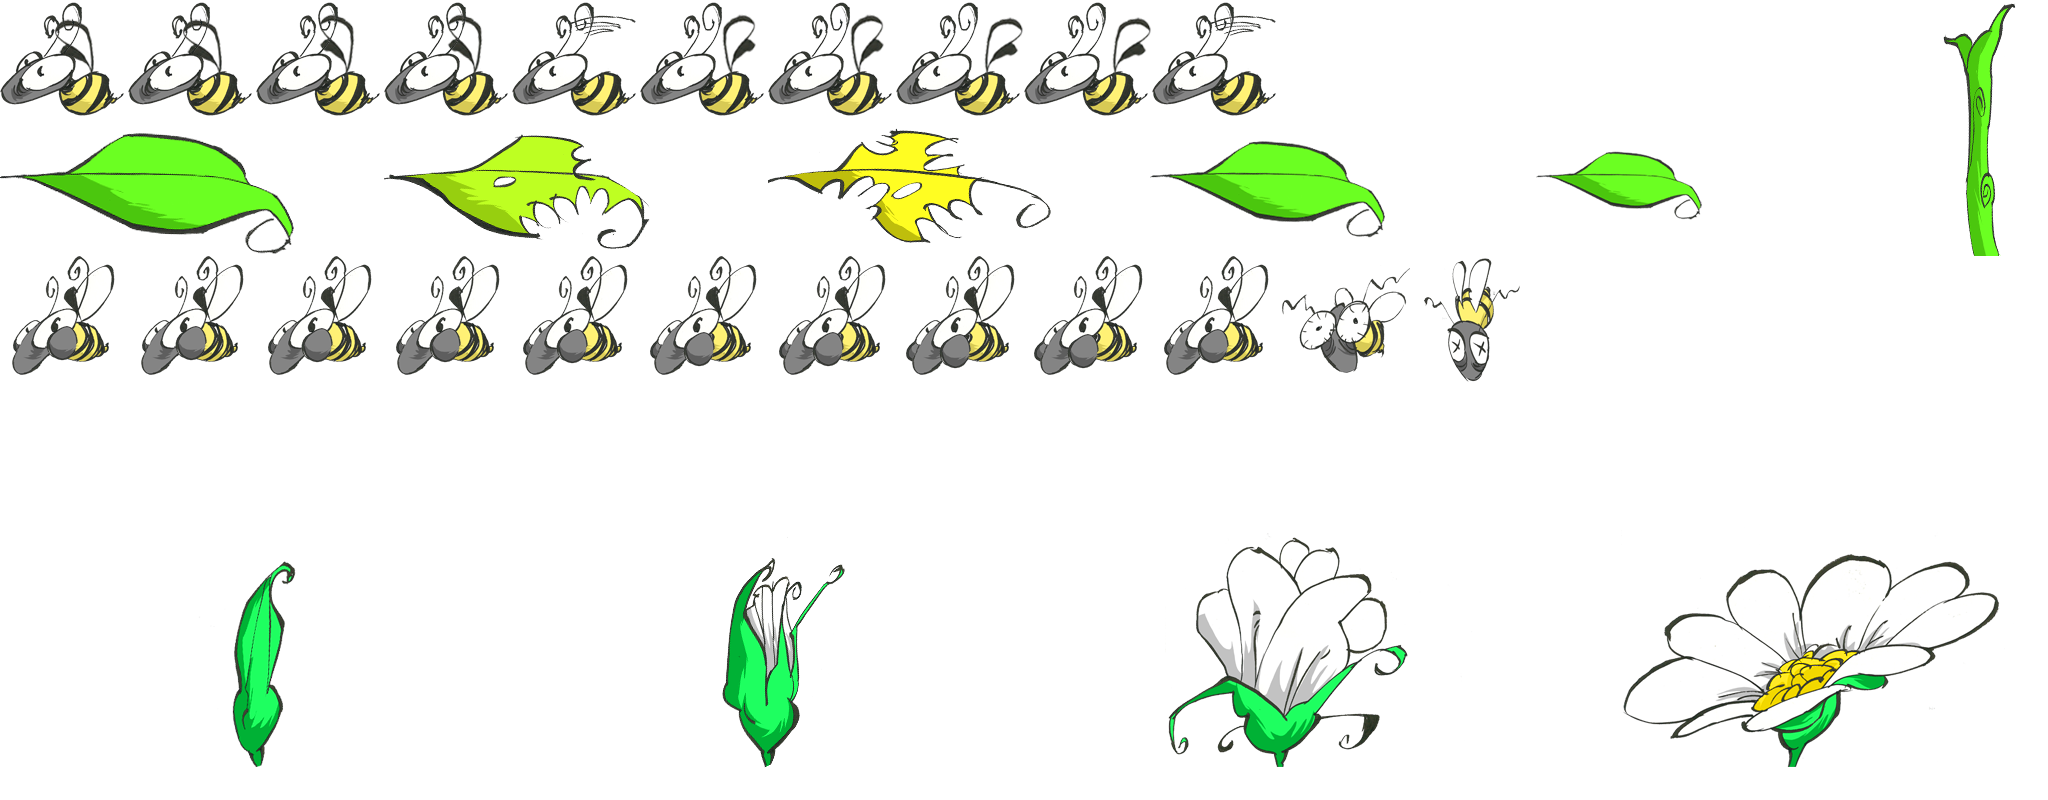
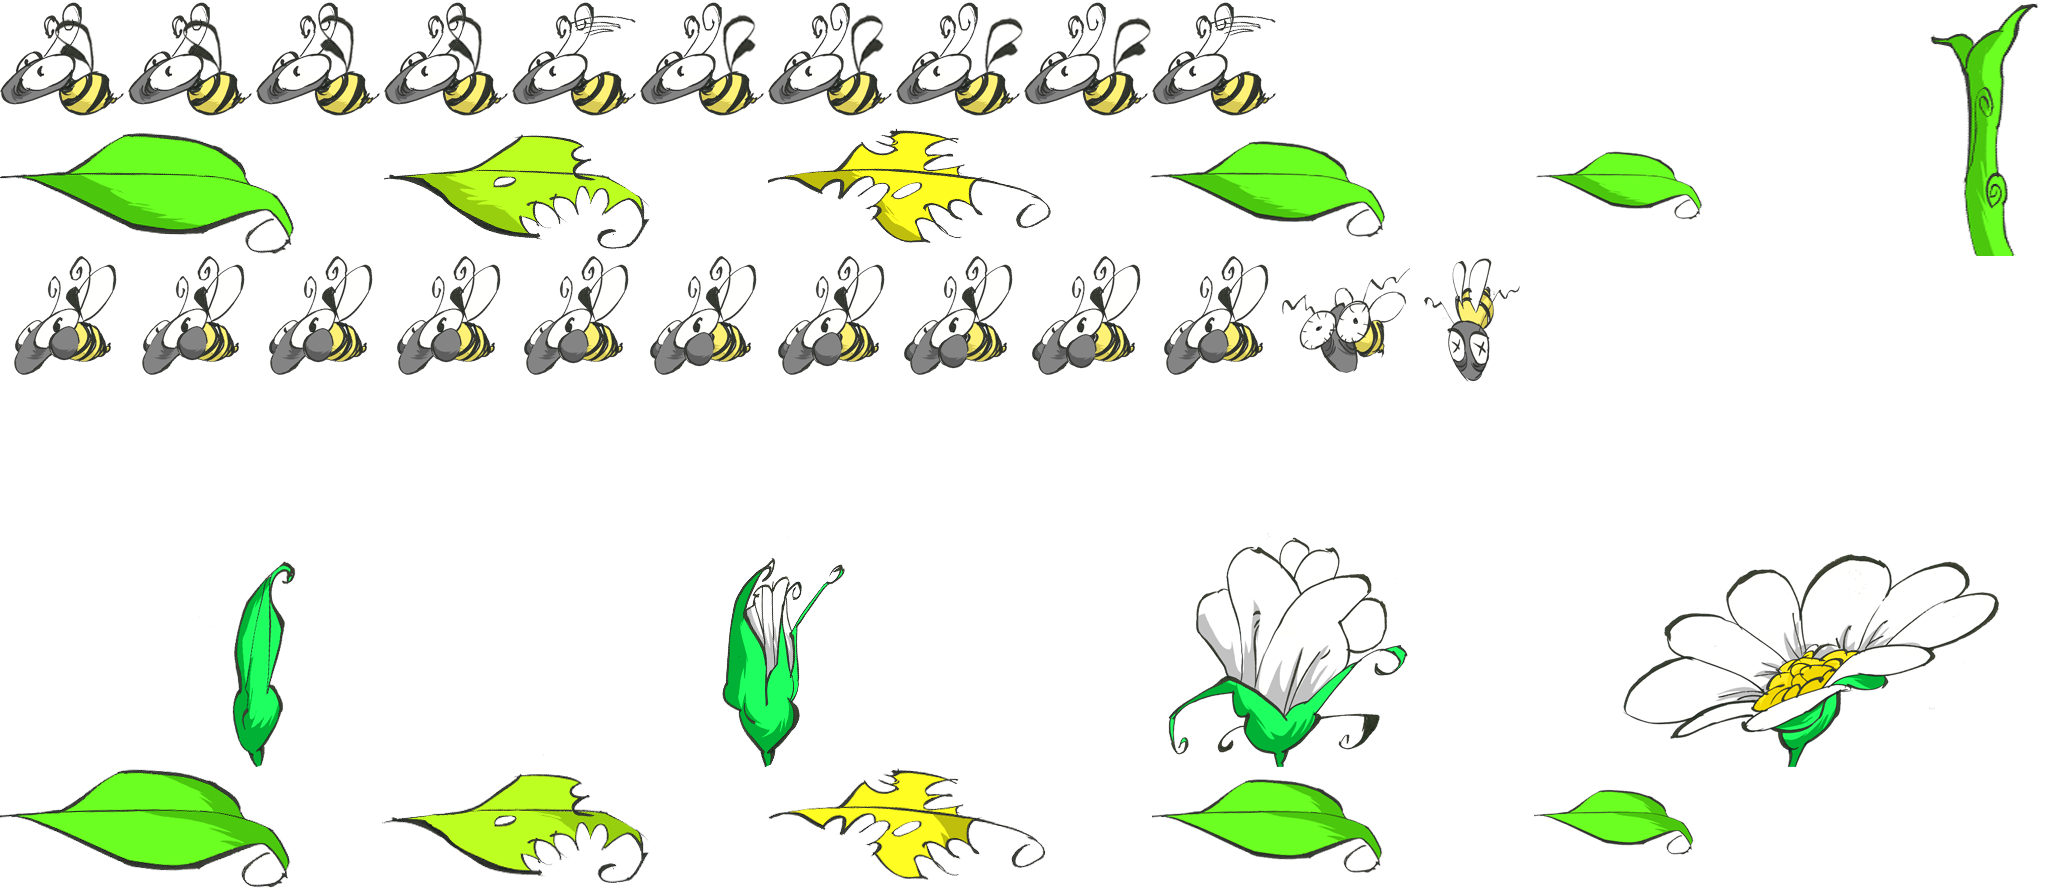
fixing hoja graphics

diff --git a/Classes/LoadScene.cpp b/Classes/LoadScene.cpp
@@ -109,17 +109,31 @@ void LoadScene::loadGameContent() {
     
     
     sframe=CCSpriteFrame::create("Grow1_textura1.png", CCRectMake(768, 64, 192,64));
-    sf_cache->addSpriteFrame(sframe, "hoja1");
+    sf_cache->addSpriteFrame(sframe, "right_hoja1");
     sframe=CCSpriteFrame::create("Grow1_textura1.png", CCRectMake(576, 64, 192,64));
-    sf_cache->addSpriteFrame(sframe, "hoja2");
+    sf_cache->addSpriteFrame(sframe, "right_hoja2");
     sframe=CCSpriteFrame::create("Grow1_textura1.png", CCRectMake(0, 64, 192,64));
-    sf_cache->addSpriteFrame(sframe, "hoja3");
+    sf_cache->addSpriteFrame(sframe, "right_hoja3");
 
     sframe=CCSpriteFrame::create("Grow1_textura1.png", CCRectMake(192, 64, 192,64));
-    sf_cache->addSpriteFrame(sframe, "hoja_comida1");
+    sf_cache->addSpriteFrame(sframe, "right_hoja_comida1");
     sframe=CCSpriteFrame::create("Grow1_textura1.png", CCRectMake(384, 64, 192,64));
-    sf_cache->addSpriteFrame(sframe, "hoja_comida2");
+    sf_cache->addSpriteFrame(sframe, "right_hoja_comida2");
 
+    sframe=CCSpriteFrame::create("Grow1_textura1.png", CCRectMake(768, 384, 192,64));
+    sf_cache->addSpriteFrame(sframe, "left_hoja1");
+    sframe=CCSpriteFrame::create("Grow1_textura1.png", CCRectMake(576, 384, 192,64));
+    sf_cache->addSpriteFrame(sframe, "left_hoja2");
+    sframe=CCSpriteFrame::create("Grow1_textura1.png", CCRectMake(0, 384, 192,64));
+    sf_cache->addSpriteFrame(sframe, "left_hoja3");
+    
+    sframe=CCSpriteFrame::create("Grow1_textura1.png", CCRectMake(192, 384, 192,64));
+    sf_cache->addSpriteFrame(sframe, "left_hoja_comida1");
+    sframe=CCSpriteFrame::create("Grow1_textura1.png", CCRectMake(384, 384, 192,64));
+    sf_cache->addSpriteFrame(sframe, "left_hoja_comida2");
+    
+
+    
     
 //    sframe=CCSpriteFrame::create("Grow1_textura1.png", CCRectMake(0, 192, 192,96));
 //    sf_cache->addSpriteFrame(sframe, "flor1");
@@ -175,9 +189,13 @@ void LoadScene::loadGameContent() {
     anim=CCAnimation::createWithSpriteFrames(frames,0.03);
     an_cache->addAnimation(anim, "bicho_comiendo");
 
-    frames=CCArray::create(sf_cache->spriteFrameByName("hoja1"),sf_cache->spriteFrameByName("hoja2"),sf_cache->spriteFrameByName("hoja3"),NULL);
+    frames=CCArray::create(sf_cache->spriteFrameByName("left_hoja1"),sf_cache->spriteFrameByName("left_hoja2"),sf_cache->spriteFrameByName("left_hoja3"),NULL);
     anim=CCAnimation::createWithSpriteFrames(frames,0.4);
-    an_cache->addAnimation(anim, "hoja");
+    an_cache->addAnimation(anim, "left_hoja");
+
+    frames=CCArray::create(sf_cache->spriteFrameByName("right_hoja1"),sf_cache->spriteFrameByName("right_hoja2"),sf_cache->spriteFrameByName("right_hoja3"),NULL);
+    anim=CCAnimation::createWithSpriteFrames(frames,0.4);
+    an_cache->addAnimation(anim, "right_hoja");
     
     frames=CCArray::create(sf_cache->spriteFrameByName("flor1"),sf_cache->spriteFrameByName("flor2"),sf_cache->spriteFrameByName("flor3"),sf_cache->spriteFrameByName("flor4"),NULL);
     anim=CCAnimation::createWithSpriteFrames(frames,0.5);

diff --git a/Classes/Hoja.cpp b/Classes/Hoja.cpp
@@ -14,7 +14,8 @@ float hoja_angulo_hoja=0;
 
 CCArray * hojas = NULL;
 
-CCAnimation *hoja_anim= NULL;
+CCAnimation *left_hoja_anim= NULL;
+CCAnimation *right_hoja_anim= NULL;
 
 
 Hoja::Hoja() {
@@ -32,19 +33,21 @@ bool Hoja::init(CCNode *parent,CCPoint pos, bool fliped) {
         hojas->retain();
     }
     
-    if (!hoja_anim)
-        hoja_anim= CCAnimationCache::sharedAnimationCache()->animationByName("hoja");
+    if (!left_hoja_anim)
+        left_hoja_anim= CCAnimationCache::sharedAnimationCache()->animationByName("left_hoja");
+    if (!right_hoja_anim)
+        right_hoja_anim= CCAnimationCache::sharedAnimationCache()->animationByName("right_hoja");
 
     
     
     
-    hoja_sprite=CCSprite::createWithSpriteFrameName("hoja1");
+    hoja_sprite=CCSprite::createWithSpriteFrameName(fliped?"right_hoja1":"left_hoja1");
     hoja_sprite->retain();
     
     hoja_sprite->setAnchorPoint(fliped?ccp(1,.5):ccp(0,.5));
     hoja_sprite->setPosition(pos);
     hoja_sprite->setFlipX(fliped);
-    hoja_sprite->runAction(CCAnimate::create(hoja_anim));
+    hoja_sprite->runAction(CCAnimate::create(fliped?left_hoja_anim:right_hoja_anim));
     hoja_sprite->setRotation(fliped?-hoja_angulo_hoja:hoja_angulo_hoja);
     parent->addChild(hoja_sprite,11);
 
@@ -107,10 +110,10 @@ bool Hoja::drain(float dlife) {
         return false;
     } else if (damage<2 && vida < 0.3*maxvida) {
         damage+=1;
-        hoja_sprite->setDisplayFrame(CCSpriteFrameCache::sharedSpriteFrameCache()->spriteFrameByName("hoja_comida2"));
+        hoja_sprite->setDisplayFrame(CCSpriteFrameCache::sharedSpriteFrameCache()->spriteFrameByName(hoja_sprite->isFlipX()?"left_hoja_comida2":"right_hoja_comida2"));
     } else if (damage<1 && vida < 0.6*maxvida) {
         damage+=1;
-        hoja_sprite->setDisplayFrame(CCSpriteFrameCache::sharedSpriteFrameCache()->spriteFrameByName("hoja_comida1"));        
+        hoja_sprite->setDisplayFrame(CCSpriteFrameCache::sharedSpriteFrameCache()->spriteFrameByName(hoja_sprite->isFlipX()?"left_hoja_comida1":"right_hoja_comida1"));
     }
     return true;
 }

diff --git a/Classes/MenuScene.cpp b/Classes/MenuScene.cpp
@@ -13,7 +13,7 @@ bool dontdieOption=false;
 
 
 // origen 0,0 en la esquina inferior izuquierda son hijos de scene
-const CCPoint titulo_position = ccp(240,250);
+const CCPoint titulo_position = ccp(240,270);
 const CCPoint titulo_position_out = ccp(240,400);
 
 const CCPoint options_position = ccp(240,160);
@@ -109,6 +109,7 @@ void MenuScene::action_enter1(CCObject *sender) {
     if (theGameScene) theGameScene->release();
     theGameScene = GameScene::create(10);
     theGameScene->retain();
+    this->mainCleanActions();
     
     pDirector->replaceScene(CCTransitionMoveInL::create(0.3,theGameScene));
 }

diff --git a/Classes/GameScene.cpp b/Classes/GameScene.cpp
@@ -199,6 +199,7 @@ void GameScene::schedule_game_exit(float dt) {
 
 void GameScene::game_exit() {
     printf("finished\n");
+    theMenuScene->mainEnterActions();
     CCDirector::sharedDirector()->replaceScene(CCTransitionMoveInR::create(0.3,theMenuScene));
 
 }
